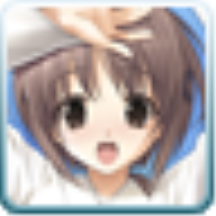
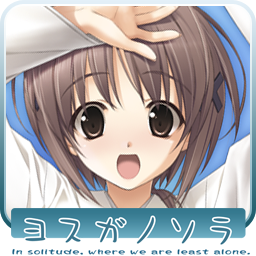
unify app branding and video across platforms; add 立绘 open diagnostic
- Replace all platform app icons (Android mipmap-*, OHOS app_icon/icon,
  plus Windows rcedit injection) with the source 图标.ico (256x256 PNG).
- Rename Windows executable/config to "Yosuga no Sora-HD Remake.{exe,cf}"
  (tvpwin32.cf must stay same-named as the exe). data/tvpwin32.cf untouched.
- Unify app name to 缘之空：高清重制 (PRODUCT_NAME / strings / string.json) and
  bundle identifier across platforms via CMake variables. Windows unchanged.
- Unify the opening video on all platforms to sphere.mp4 (use the iOS-fixed
  content); delete sphere_ios.mp4 and drop the IsIOSPlatform() branch in
  Title.tjs.
- Commit user-corrected event_1920/EB08B.png.
- StorageImpl: log every storage-media open (tTVPFileMedia::Open) with {{OPEN}}
  so the Android 立绘 (character layer) blank issue can be diagnosed. The log
  in TVPOpenStream never fires on Android because reads go through the media node.

diff --git a/src/core/base/sdl2/StorageImpl.cpp b/src/core/base/sdl2/StorageImpl.cpp
@@ -304,6 +304,14 @@ bool TJS_INTF_METHOD tTVPFileMedia::CheckExistentStorage(const ttstr &name)
 //---------------------------------------------------------------------------
 tTJSBinaryStream * TJS_INTF_METHOD tTVPFileMedia::Open(const ttstr & name, tjs_uint32 flags)
 {
+	/* DIAGNOSTIC: Android actually reads files through tTVPFileMedia::Open,
+	 * not TVPOpenStream, so the {{OPEN}} line there never fires. This records
+	 * every media open to distinguish "立绘 png never opened" vs "not composited". */
+	{
+		std::string name8;
+		TVPUtf16ToUtf8(name8, name.AsStdString());
+		TVPAddLog(("{{OPEN}} " + name8).c_str());
+	}
 	// open storage named "name".
 	// currently only local/network(by OS) storage systems are supported.
 	if(name.IsEmpty())
